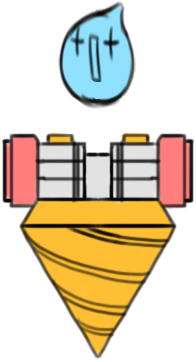
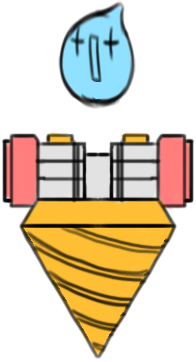
1.Add Drill sprite 2.Fixed Drill.cs that can show animation

Changed region(s): [[0.1224, 0.6077, 0.7653, 0.9724], [0.3061, 0.6077, 0.8571, 0.6989]]

diff --git a/Assets/Script/Drill.cs b/Assets/Script/Drill.cs
@@ -2,15 +2,38 @@
 using System.Collections;
 
 public class Drill : MonoBehaviour {
+	SpriteRenderer drillSr;
+	SpriteRenderer articleSr;
+
+	public Sprite[] drillSp;
+	public Sprite[] articleSp;
 	public bool isAct = false;
+
+	IEnumerator drillAction(){
+		GameObject tmp = articleSr.gameObject;
+		transform.position = new Vector2 (tmp.transform.position.x, tmp.transform.position.y+1.3f);
+		int j;
+		for (int i = 0; i < 8; i++) {
+			drillSr.sprite = drillSp [i];
+			transform.Translate (Vector2.up *-2.3f* Time.deltaTime);
+			if (i > 5)
+				j = 5;
+			else
+				j = i;
+			articleSr.sprite = articleSp [j];
+			yield return new WaitForSeconds (0.1f);
+		}
+		Destroy (articleSr.gameObject);
+		Destroy (this.gameObject);
+		isAct = false;
+	}
 
 	void OnTriggerEnter2D(Collider2D coll){
 		if (coll.tag == "Article") {
 			isAct = true;
-			Destroy (coll.gameObject);
-			Destroy (this.gameObject);
-		} else {
-			Destroy (this.gameObject);
+			articleSr = coll.GetComponent<SpriteRenderer> ();
+			StartCoroutine (drillAction ());
+
 		}
 	}
 
@@ -22,6 +45,8 @@ public class Drill : MonoBehaviour {
 	}
 	// Use this for initialization
 	void Start () {
+		drillSr = GetComponent<SpriteRenderer> ();
+
 	}
 	
 	// Update is called once per frame

diff --git a/Assets/Script/Handler.cs b/Assets/Script/Handler.cs
@@ -114,8 +114,8 @@ public class Handler : MonoBehaviour {
 	}
 	IEnumerator CreateSlime(){
 		for (int i = 0; i < 5; i++) {
-			float a = Random.Range (-1.0f, 1.0f);
-			GameObject tmp = (GameObject)Instantiate (Slime, new Vector2 (spawn.transform.position.x+a, spawn.transform.position.y), this.transform.rotation);
+			//float a = Random.Range (-1.0f, 1.0f);
+			GameObject tmp = (GameObject)Instantiate (Slime, new Vector2 (spawn.transform.position.x, spawn.transform.position.y), this.transform.rotation);
 			tmp.transform.SetParent (slimes.transform);
 			tmp.GetComponent<Rigidbody2D> ().AddForce (Vector2.right * 10,ForceMode2D.Impulse);
 			yield return new WaitForSeconds (3.0f);
